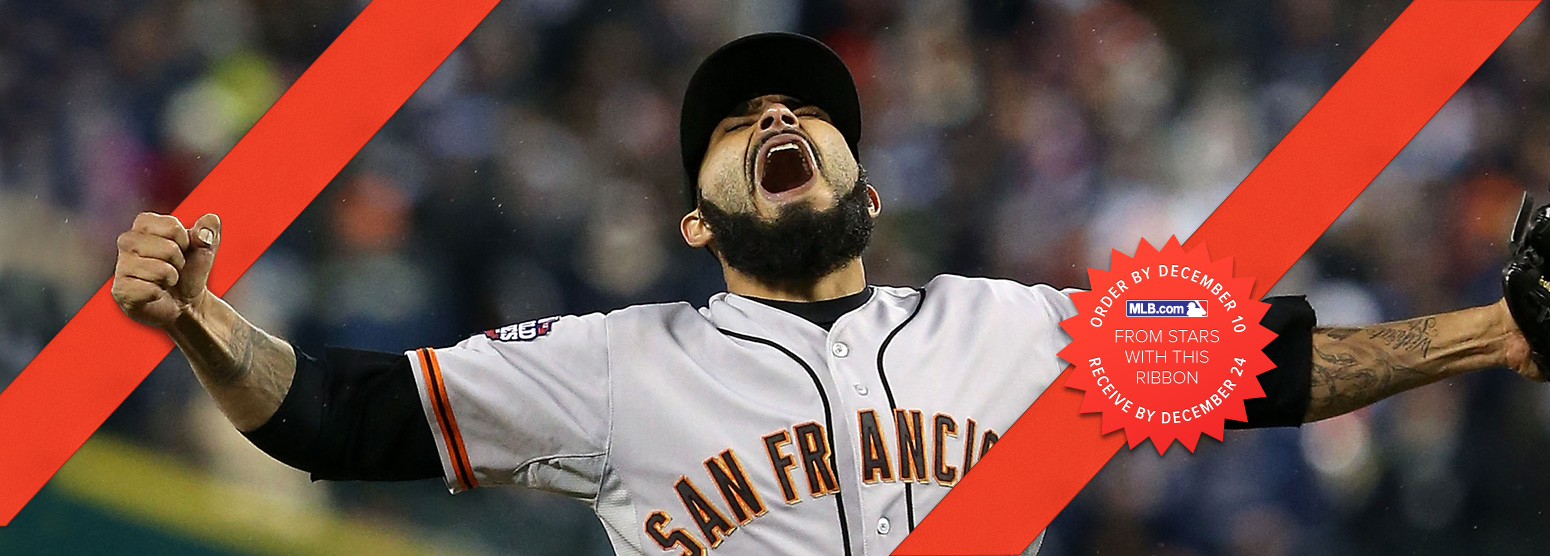
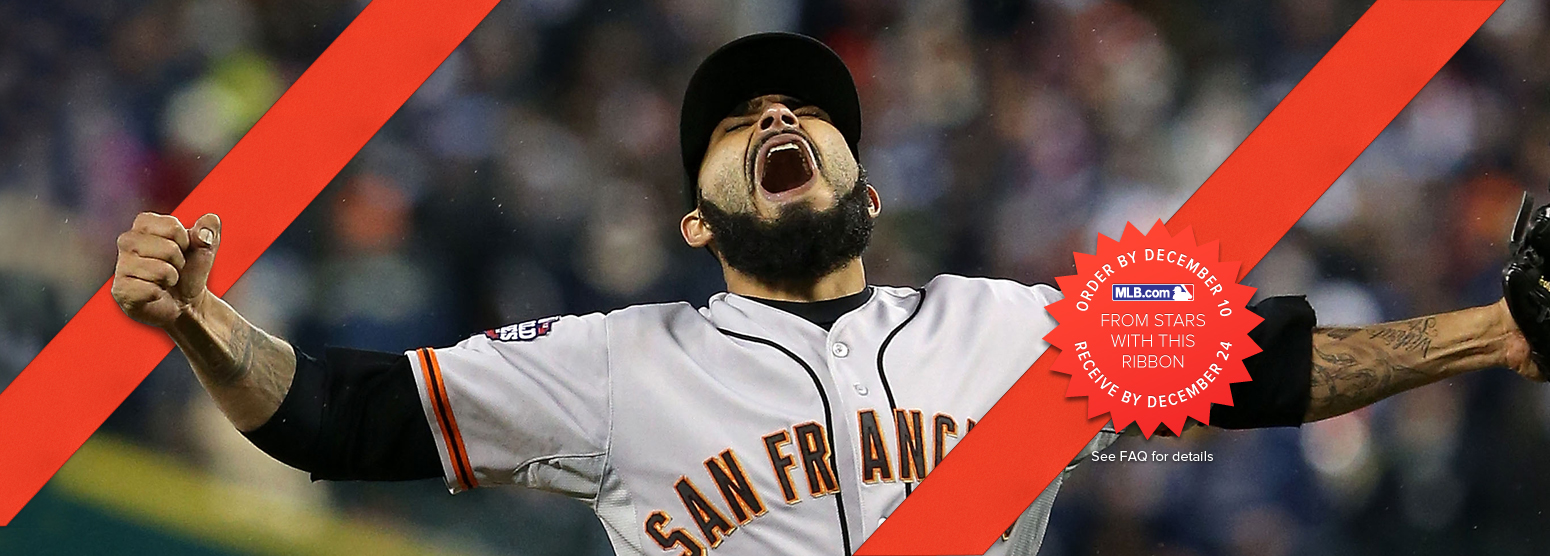
SER-512: FAQ and masthead for the holidays.

Changed region(s): [[0.5265, 0.0, 1.0, 1.0]]

diff --git a/modules/front-end/app/views/frontend/faq.scala.html b/modules/front-end/app/views/frontend/faq.scala.html
@@ -22,31 +22,39 @@ footerData: models.frontend.footer.FooterData
       <div class="row-fluid">
         <div class="span12">
           <h1>Frequently Asked Questions</h1>
-          <h2>
+          <h2 style="line-height:30px">Egraphs for the Holidays</h2>
+          <p>At Egraphs, we believe there’s nothing more important than making sure your special gift arrives in time for the holidays. Because we’re working with hundreds of stars with varying schedules, it’s not always easy. That’s why we’ve pre-selected dozens of stars for you who we know will be able to create their egraphs in time to arrive for the holidays. Just look for a star with a red ribbon, order by December 10, and you’ll receive your egraph by December 24. There is definitely a good chance that players without the red ribbons will also be able to create egraphs by Dec 24, but it may be a little less likely you’ll receive it by then.</p>
+          <h2 style="line-height:30px">If I order by December 10, what exactly will I receive by December 24?</h2>
+          <p>If you ordered a digital version only, then you’ll receive only the digital egraph via email. If you ordered a frame version in addition to the digital egraph, then you will also receive the framed version by December 24. The digital version is sent in an email to you and the recipient that includes a link and information on how to view and listen to the egraph.  If you’d like this email delivered on Christmas morning (before 9am PT), let us know at <a href="mailto:support@@egraphs.com">support@@egraphs.com</a>.</p>
+          <h2 style="line-height:30px">What happens if there’s an extenuating circumstance and my star can’t create his egraph by December 24?</h2>
+          <p>If that happens, we will reach out to you as soon we learn about it and work with you to find an alternate solution.</p>
+          <h2 style="line-height:30px">Can I order a gift card if I don’t know which star my friend or family member would want an egraph from?</h2>
+          <p>We currently do not offer gift cards, but we will have this option available in December. If you’d like us to let you know when gift cards become available, please email us at <a href="mailto:support@@egraphs.com">support@@egraphs.com</a>.</p>
+          <h2 style="line-height:30px">
             <a name="what-is"></a>What is an egraph?
           </h2>
           <p>
             An egraph is a shared moment between you and your star, captured forever. It is the next generation autograph -- no traditional pen &amp; paper involved. It starts with you writing a message to the star. Your star will personally read this message on an iPad. Then, based on what you requested and the information you provide for your egraph, your star will create an authenticated written and audio message just for you using a special iPad app. No two egraphs are alike. Each one looks and sounds different—your egraph was created just for you (or your gift recipient) based on your original message to the star.  Egraphs can be viewed online on your computer, smartphone, or tablet device, or you can have them printed and framed to display on a wall or desk.
           </p>
-					<h2>
+					<h2 style="line-height:30px">
             <a name="egraphs"></a>How does Egraphs bring the stars to you?
           </h2>
           <p>
             It begins when stars tell us they want to create egraphs for their fans. To begin, we make sure they are set up with an iPad and the Egraphs iPad app. It’s through the technology of the iPad that we’re able to bring you any star from anywhere in the world at any time. We enroll the stars in person, gathering voiceprints and handwriting samples. These are used later on to verify that the star you contacted is the one writing and recording an egraph for you. No middle men. No generic signed photographs.  Each egraph is unique and personal, created individually for you.
           </p>
-          <h2>
+          <h2 style="line-height:30px">
             <a name="create"></a>How exactly does a star create an egraph?
           </h2>
           <p>
             Once you order an egraph, your request is routed to the Egraphs iPad app on your star’s iPad.  When the star has some time to connect with their fans, they will open up the Egraphs app. The first thing they see is your message. That’s important – this lets them know who you are and why you’re a fan. Then the star goes on to create the personalized written and voice message to you through their iPad. They use an iPad stylus to hand-write the messages, and they use the iPad’s microphone to record the audio message.
           </p>
-          <h2>
+          <h2 style="line-height:30px">
             <a name="message"></a>What message can I send a star?
           </h2>
           <p>
             Anything! Well ... just about anything. You can tell the star how big a fan you are. Or that you went to the same high school. Or that you’re going to see him play when he comes to your town. It’s up to you. The only thing we ask is that your message is respectful to the star, just as we expect the star to be respectful in the written and audio messages they create for you. If your message doesn’t pass, we’ll kick it back to you to revise before we send it on to the star. For the full Terms of Use, <a href="/terms">click here</a>.
           </p>
-          <h2>
+          <h2 style="line-height:30px">
             <a name="how-many"></a>How many egraphs are available from my star?  What happens if they sell out?
           </h2>
           <p>
@@ -55,13 +63,13 @@ footerData: models.frontend.footer.FooterData
               If your favorite star’s egraphs are sold out, send an email to <a href="mailto:requests@@egraphs.com">requests@@egraphs.com</a> with your star's name and we'll let you know when they become available, or follow <a href="http://www.twitter.com/egraphs">@@Egraphs</a> on Twitter and we'll announce it there.
             </strong></p>
           </p>
-          <h2>
+          <h2 style="line-height:30px">
             <a name="how-long"></a>How long will it be before I get my egraph?
           </h2>
           <p>
             Stars agree to create egraphs for fans in a timely manner. When you order your egraph, you will be given a date by which you can expect your egraph to be delivered. The delivery date is conservative but still not a guarantee. Over 50% of orders will be delivered in half the time of the expected date. Framed prints typically arrive 3 weeks after the digital egraph has been delivered. If you have a specific need to get something ahead of time, send us an email to <a href="mailto:support@@egraphs.com">support@@egraphs.com</a> and we'll try to grease the wheels. If we foresee any issues with a star finishing your egraph by this date, we will let you know as soon as possible.
           </p>
-          <h2>
+          <h2 style="line-height:30px">
             <a name="gift"></a>Can I give an egraph as a gift to someone else?
           </h2>
           <p>
@@ -69,7 +77,7 @@ footerData: models.frontend.footer.FooterData
 
             If you want the recipient to receive the egraph on a certain date (such as a birthday, anniversary, or special holiday) please email us at <a href="mailto:support@@egraphs.com">support@@egraphs.com</a> with your order number and the date you’d like it delivered.  Instead of delivering the egraph as soon as the star creates it, we’ll wait until the date you specify so the recipient gets a nice surprise in their email on the special day.
           </p>
-          <h2>
+          <h2 style="line-height:30px">
             <a name="svgz"></a>I can't view or play my egraph, or I see a message about an SVGZ file. What should I do?
           </h2>
           <p>
@@ -81,19 +89,19 @@ footerData: models.frontend.footer.FooterData
           <p>
             If you continue to have trouble viewing or hearing your egraph, please reach out to us at <a href="mailto:support@@egraphs.com">support@@egraphs.com</a>.
           </p>
-					<h2>
+					<h2 style="line-height:30px">
             <a name="child"></a>The site terms say you have to be 13 to use the site. So can I give a gift to a child?
           </h2>
           <p>
             Assuming you have the parent's permission, you can submit the egraph order with the name of the child and the email address of the parent. In this case the parent will own the egraph and manage the privacy. Egraphs will transfer ownership of the egraph free of charge when the child is old enough to use the site.
           </p>
-          <h2>
+          <h2 style="line-height:30px">
             <a name="new-stars"></a>How do I know when new stars are available on egraphs.com?
           </h2>
           <p>
             Follow us on Twitter: <a href="http://www.twitter.com/egraphs">@@Egraphs</a>.  We’ll let you know when we roll out new stars. Or, follow your favorite star on Twitter. When stars come on board, they’ll usually send out a message to their Twitter followers.
           </p>
-          <h2>
+          <h2 style="line-height:30px">
             <a name="follow"></a>Where can I follow Egraphs online?
           </h2>
           <p>
@@ -104,21 +112,21 @@ footerData: models.frontend.footer.FooterData
             doing.
           </p>
 
-          <h2>
+          <h2 style="line-height:30px">
             <a name="international-orders"></a>Can I order an egraph or send one to someone who isn’t in the United States?
           </h2>
           <p>
             An egraph is sent via email, so an egraph can be ordered and sent  to anyone anywhere in the world. The additional option of a framed print is currently only available to ship to the US and Canada. When placing an order for a framed print, if you can't put in a Canadian postal code, just put in 0000 and follow up with an email to support@@egraphs.com with the correct address.
           </p>
 
-          <h2>
+          <h2 style="line-height:30px">
             <a name="how-much"></a>How much is an egraph?
           </h2>
           <p>
             The price for an egraph depends on which star you’re ordering an egraph from.  Some may cost $25, some may be $100 or more.  To find the price for a star you’re interested in, find where they are listed on our home page and click on their picture.  You’ll then see the prices listed below each available photo for that star.  Please note that additional options, such as ordering a framed print of your egraph are in addition to the cost of the egraph.
           </p>
 
-          <h2>
+          <h2 style="line-height:30px">
             <a name="framed-print"></a>Can I have more information about the framed print option?
           </h2>
           <p>
@@ -127,7 +135,7 @@ footerData: models.frontend.footer.FooterData
             When ordering your egraph, you have the option of selecting this option for $45, and you will also be asked for a shipping address. If you decide you’d like to order a framed print after your original purchase, just reach out to us at support@@egraphs.com and we’ll get your framed print order processed.
           </p>
 
-          <h2>
+          <h2 style="line-height:30px">
             <a name="question"></a>I have a question that isn’t answered here.  Who can I ask?
           </h2>
           <p>
